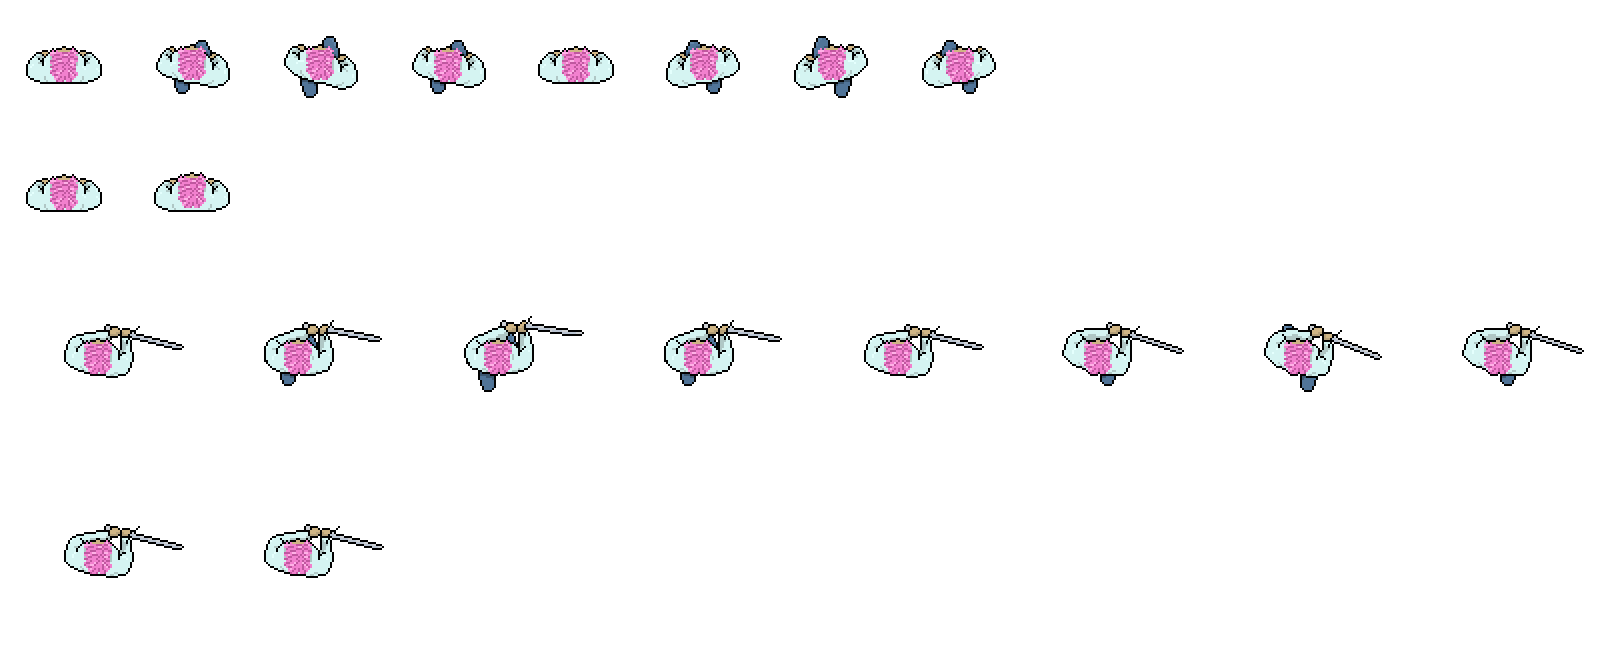
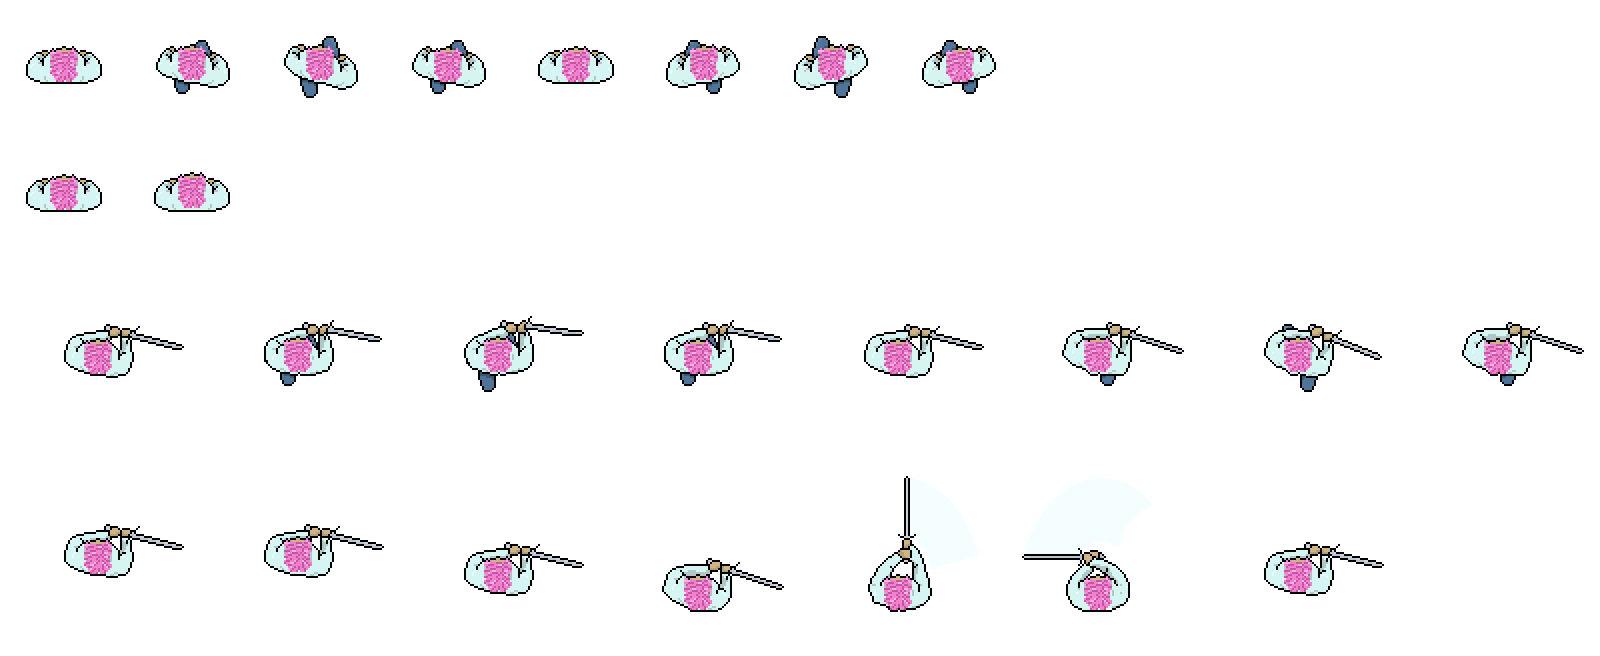
'space' for sword, 'm1' for attack

diff --git a/main.js b/main.js
@@ -56,8 +56,8 @@ Animation.prototype.isDone = function () {
 }
 
 function Background(game) {
-    Entity.call(this, game, 0, 400);
-    this.radius = 200;
+    Entity.call(this, game, 0, 0);
+    this.radius = 0;
 }
 
 Background.prototype = new Entity();
@@ -67,8 +67,7 @@ Background.prototype.update = function () {
 }
 
 Background.prototype.draw = function (ctx) {
-    ctx.fillStyle = "SaddleBrown";
-    ctx.fillRect(0,500,800,300);
+    ctx.drawImage(ASSET_MANAGER.getAsset("./img/background.png"), 0, 0);
     Entity.prototype.draw.call(this);
 }
 
@@ -119,6 +118,7 @@ function Crump(game) {
     this.walk = new Animation(ASSET_MANAGER.getAsset("./img/LilCrump.png"), 0, 0, 128, 128, 0.1, 8, true, false);
     this.swordIdle = new Animation(ASSET_MANAGER.getAsset("./img/LilCrump.png"), 0, 456, 200, 200, 0.4, 2, true, false);
     this.swordWalk = new Animation(ASSET_MANAGER.getAsset("./img/LilCrump.png"), 0, 256, 200, 200, 0.1, 8, true, false);
+    this.swordAttack = new Animation(ASSET_MANAGER.getAsset("./img/LilCrump.png"), 400, 456, 200, 200, 0.1, 5, false, false);
     this.radius = 128;
     this.ground = 400;
     Entity.call(this, game, 300, 400);
@@ -132,6 +132,14 @@ Crump.prototype = new Entity();
 Crump.prototype.constructor = Crump;
 
 Crump.prototype.update = function () {
+    if (this.game.clickmouse && this.game.space) this.attacking = true;
+    if (this.attacking) {
+        if (this.swordAttack.isDone()) {
+            this.swordAttack.elapsedTime = 0;
+            this.attacking = false;
+        }
+    }
+
     if (this.game.up) this.velocity.y -= this.acceleration;
     if (this.game.down) this.velocity.y += this.acceleration;
     if (this.game.left) this.velocity.x -= this.acceleration;
@@ -156,13 +164,16 @@ Crump.prototype.draw = function (ctx) {
 
     var rotation = Math.atan2(this.game.mouse.y - this.y, this.game.mouse.x - this.x) + Math.PI/2;
 
-    if (this.game.up || this.game.left || this.game.down || this.game.right) {
-        if (this.game.space) this.swordWalk.drawFrame(this.game.clockTick, ctx, this.x, this.y, rotation);
-        else this.walk.drawFrame(this.game.clockTick, ctx, this.x, this.y, rotation);
-    }
+    if (this.attacking) this.swordAttack.drawFrame(this.game.clockTick, ctx, this.x, this.y, rotation);
     else {
-        if (this.game.space) this.swordIdle.drawFrame(this.game.clockTick, ctx, this.x, this.y, rotation);
-        else this.idle.drawFrame(this.game.clockTick, ctx, this.x, this.y, rotation);
+        if (this.game.up || this.game.left || this.game.down || this.game.right) {
+            if (this.game.space) this.swordWalk.drawFrame(this.game.clockTick, ctx, this.x, this.y, rotation);
+            else this.walk.drawFrame(this.game.clockTick, ctx, this.x, this.y, rotation);
+        }
+        else {
+            if (this.game.space) this.swordIdle.drawFrame(this.game.clockTick, ctx, this.x, this.y, rotation);
+            else this.idle.drawFrame(this.game.clockTick, ctx, this.x, this.y, rotation);
+        }
     }
     Entity.prototype.draw.call(this);
 }
@@ -173,6 +184,7 @@ var friction = 8;
 
 var ASSET_MANAGER = new AssetManager();
 
+ASSET_MANAGER.queueDownload("./img/background.png")
 ASSET_MANAGER.queueDownload("./img/RobotUnicorn.png");
 ASSET_MANAGER.queueDownload("./img/LilCrump.png");
 
@@ -183,7 +195,7 @@ ASSET_MANAGER.downloadAll(function () {
 
     var gameEngine = new GameEngine();
     var bg = new Background(gameEngine);
-    var unicorn = new Unicorn(gameEngine);
+//    var unicorn = new Unicorn(gameEngine);
     var crump = new Crump(gameEngine);
 
     gameEngine.addEntity(bg);

diff --git a/gameengine.js b/gameengine.js
@@ -60,6 +60,7 @@ GameEngine.prototype.start = function () {
 GameEngine.prototype.startInput = function () {
     console.log('Starting input');
     var that = this;
+    that.space = false;
 
     var getXandY = function (e) {
         var x = e.clientX - that.ctx.canvas.getBoundingClientRect().left;
@@ -68,28 +69,28 @@ GameEngine.prototype.startInput = function () {
     }
 
     this.ctx.canvas.addEventListener("keydown", function (e) {
-        if (String.fromCharCode(e.which) === ' ') that.space = true;
+        if (String.fromCharCode(e.which) === ' ') that.space = !that.space;
         if (e.keyCode == '38' || e.keyCode == '87') that.up = true;
         if (e.keyCode == '40' || e.keyCode == '83') that.down = true;
         if (e.keyCode == '37' || e.keyCode == '65') that.left = true;
         if (e.keyCode == '39' || e.keyCode == '68') that.right = true;
-        console.log(e);
         e.preventDefault();
     }, false);
 
     this.ctx.canvas.addEventListener("keyup", function (e) {
-        if (String.fromCharCode(e.which) === ' ') that.space = false;
         if (e.keyCode == '38' || e.keyCode == '87') that.up = false;
         if (e.keyCode == '40' || e.keyCode == '83') that.down = false;
         if (e.keyCode == '37' || e.keyCode == '65') that.left = false;
         if (e.keyCode == '39' || e.keyCode == '68') that.right = false;
-        console.log(e);
         e.preventDefault();
     }, false);
 
     this.ctx.canvas.addEventListener("mousemove", function (e) {
         that.mouse = getXandY(e);
-        console.log(that.mouse);
+    }, false);
+
+    this.ctx.canvas.addEventListener("mousedown", function (e) {
+        that.clickmouse = true;
     }, false);
 
     console.log('Input started');
@@ -131,6 +132,7 @@ GameEngine.prototype.loop = function () {
     this.clockTick = this.timer.tick();
     this.update();
     this.draw();
+    this.clickmouse = false;
 }
 
 function Entity(game, x, y) {
